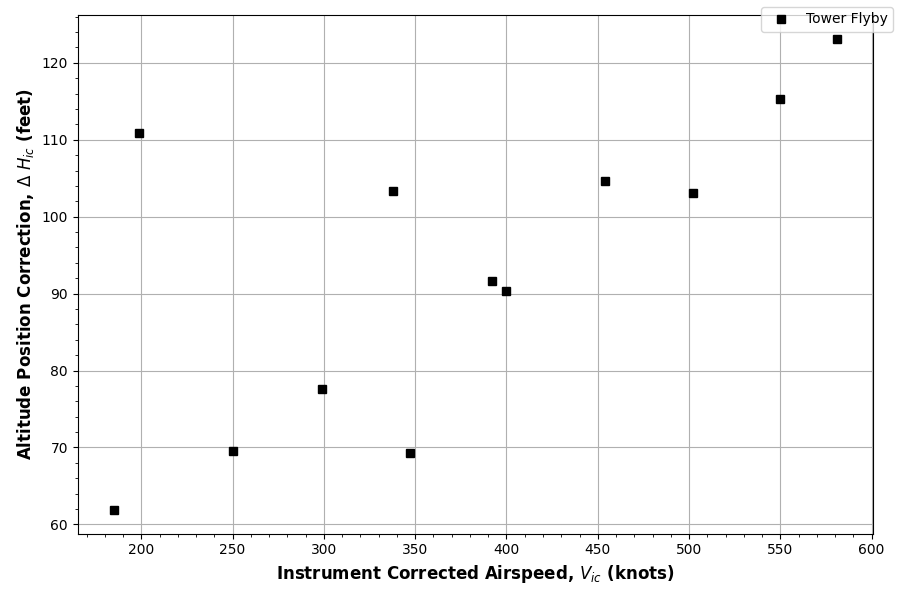
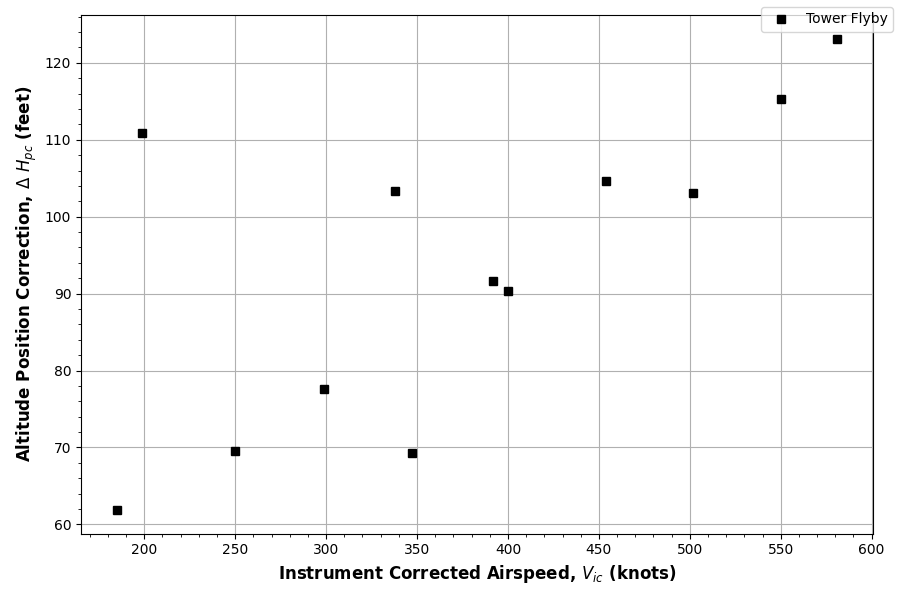
updated dH_pc plot

diff --git a/src/modules/plotters.py b/src/modules/plotters.py
@@ -47,7 +47,7 @@ def plot_static_position_error_analysis(results: dict, std_atm: AtmosphereModel)
     fig.savefig("dMpc_vs_Mic.png")
 
     """Plot Altitude position correction vs instrument corrected Airspeed"""
-    fig, ax = plotter(Vic, dHpc, r"Instrument Corrected Airspeed, $V_{ic}$ (knots)", r"Altitude Position Correction, $\Delta$ $H_{ic}$ (feet)")
+    fig, ax = plotter(Vic, dHpc, r"Instrument Corrected Airspeed, $V_{ic}$ (knots)", r"Altitude Position Correction, $\Delta$ $H_{pc}$ (feet)")
     fig.savefig("dHpc_vs_Vic.png")
 
 
